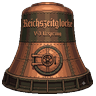
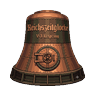
Bind Looki v1.9: smaller bell, death FX, space refresh

diff --git a/app/src/main/java/com/stoni/androidstone/ui/screens/PlayScreen.kt b/app/src/main/java/com/stoni/androidstone/ui/screens/PlayScreen.kt
@@ -74,7 +74,7 @@ private data class Fx(var x: Float, var y: Float, var life: Int, val kind: Int)
 fun PlayScreen(onExit: () -> Unit) {
     val context = LocalContext.current
     val density = LocalDensity.current
-    val shipPxSize = with(density) { 130.dp.toPx() }
+    val shipPxSize = with(density) { 112.dp.toPx() }
     val enemyPxSize = with(density) { 72.dp.toPx() }
     val bigPxSize = with(density) { 110.dp.toPx() }
     val bulletW = with(density) { 18.dp.toPx() }
@@ -82,7 +82,7 @@ fun PlayScreen(onExit: () -> Unit) {
     val prefs = remember { context.getSharedPreferences("stargame", Context.MODE_PRIVATE) }
     var high by remember { mutableIntStateOf(prefs.getInt("highscore", 0)) }
 
-    val shipImg = remember { loadAsset(context, "player_glocke_160.png") }
+    val shipImg = remember { loadAsset(context, "player_glocke_112.png") }
     val enemyImg = remember { loadAsset(context, "enemy_stoerer_64.png") }
     val enemyImgB = remember { loadAsset(context, "enemy_stoerer_b_64.png") }
     val enemyBig = remember { loadAsset(context, "enemy_stoerer_big_128.png") }
@@ -102,6 +102,10 @@ fun PlayScreen(onExit: () -> Unit) {
     val boom3 = remember { loadAsset(context, "fx_explosion_3.png") }
     val muzzle1 = remember { loadAsset(context, "fx_muzzle_1.png") }
     val muzzle2 = remember { loadAsset(context, "fx_muzzle_2.png") }
+    val death1 = remember { loadAsset(context, "fx_player_death_1.png") }
+    val death2 = remember { loadAsset(context, "fx_player_death_2.png") }
+    val death3 = remember { loadAsset(context, "fx_player_death_3.png") }
+    val death4 = remember { loadAsset(context, "fx_player_death_4.png") }
 
     var w by remember { mutableFloatStateOf(1f) }
     var h by remember { mutableFloatStateOf(1f) }
@@ -123,6 +127,7 @@ fun PlayScreen(onExit: () -> Unit) {
     var beamY by remember { mutableFloatStateOf(0f) }
     var muzzleFlash by remember { mutableIntStateOf(0) }
     var iFrames by remember { mutableIntStateOf(0) }
+    var deathFrame by remember { mutableIntStateOf(0) }
 
     val bullets = remember { mutableListOf<Bullet>() }
     val enemies = remember { mutableListOf<Enemy>() }
@@ -283,6 +288,16 @@ fun PlayScreen(onExit: () -> Unit) {
         }
     }
 
+    LaunchedEffect(gameOver) {
+        if (gameOver) {
+            deathFrame = 0
+            while (deathFrame < 4) {
+                delay(120)
+                deathFrame++
+            }
+        }
+    }
+
     Box(Modifier.fillMaxSize()) {
         Canvas(
             modifier = Modifier
@@ -312,7 +327,16 @@ fun PlayScreen(onExit: () -> Unit) {
             val shipPx = shipX * w
             val shipPy = shipY * h
             val half = shipPxSize / 2f
-            if (iFrames == 0 || (tick / 3) % 2 == 0) {
+            if (gameOver) {
+                val d = when (deathFrame.coerceIn(0, 3)) {
+                    0 -> death1
+                    1 -> death2
+                    2 -> death3
+                    else -> death4
+                }
+                val ds = shipPxSize * 1.35f
+                drawImg(d, shipPx - ds / 2f, shipPy - ds / 2f, ds, ds)
+            } else if (iFrames == 0 || (tick / 3) % 2 == 0) {
                 drawImg(shipImg, shipPx - half, shipPy - half, shipPxSize, shipPxSize)
             }
 
